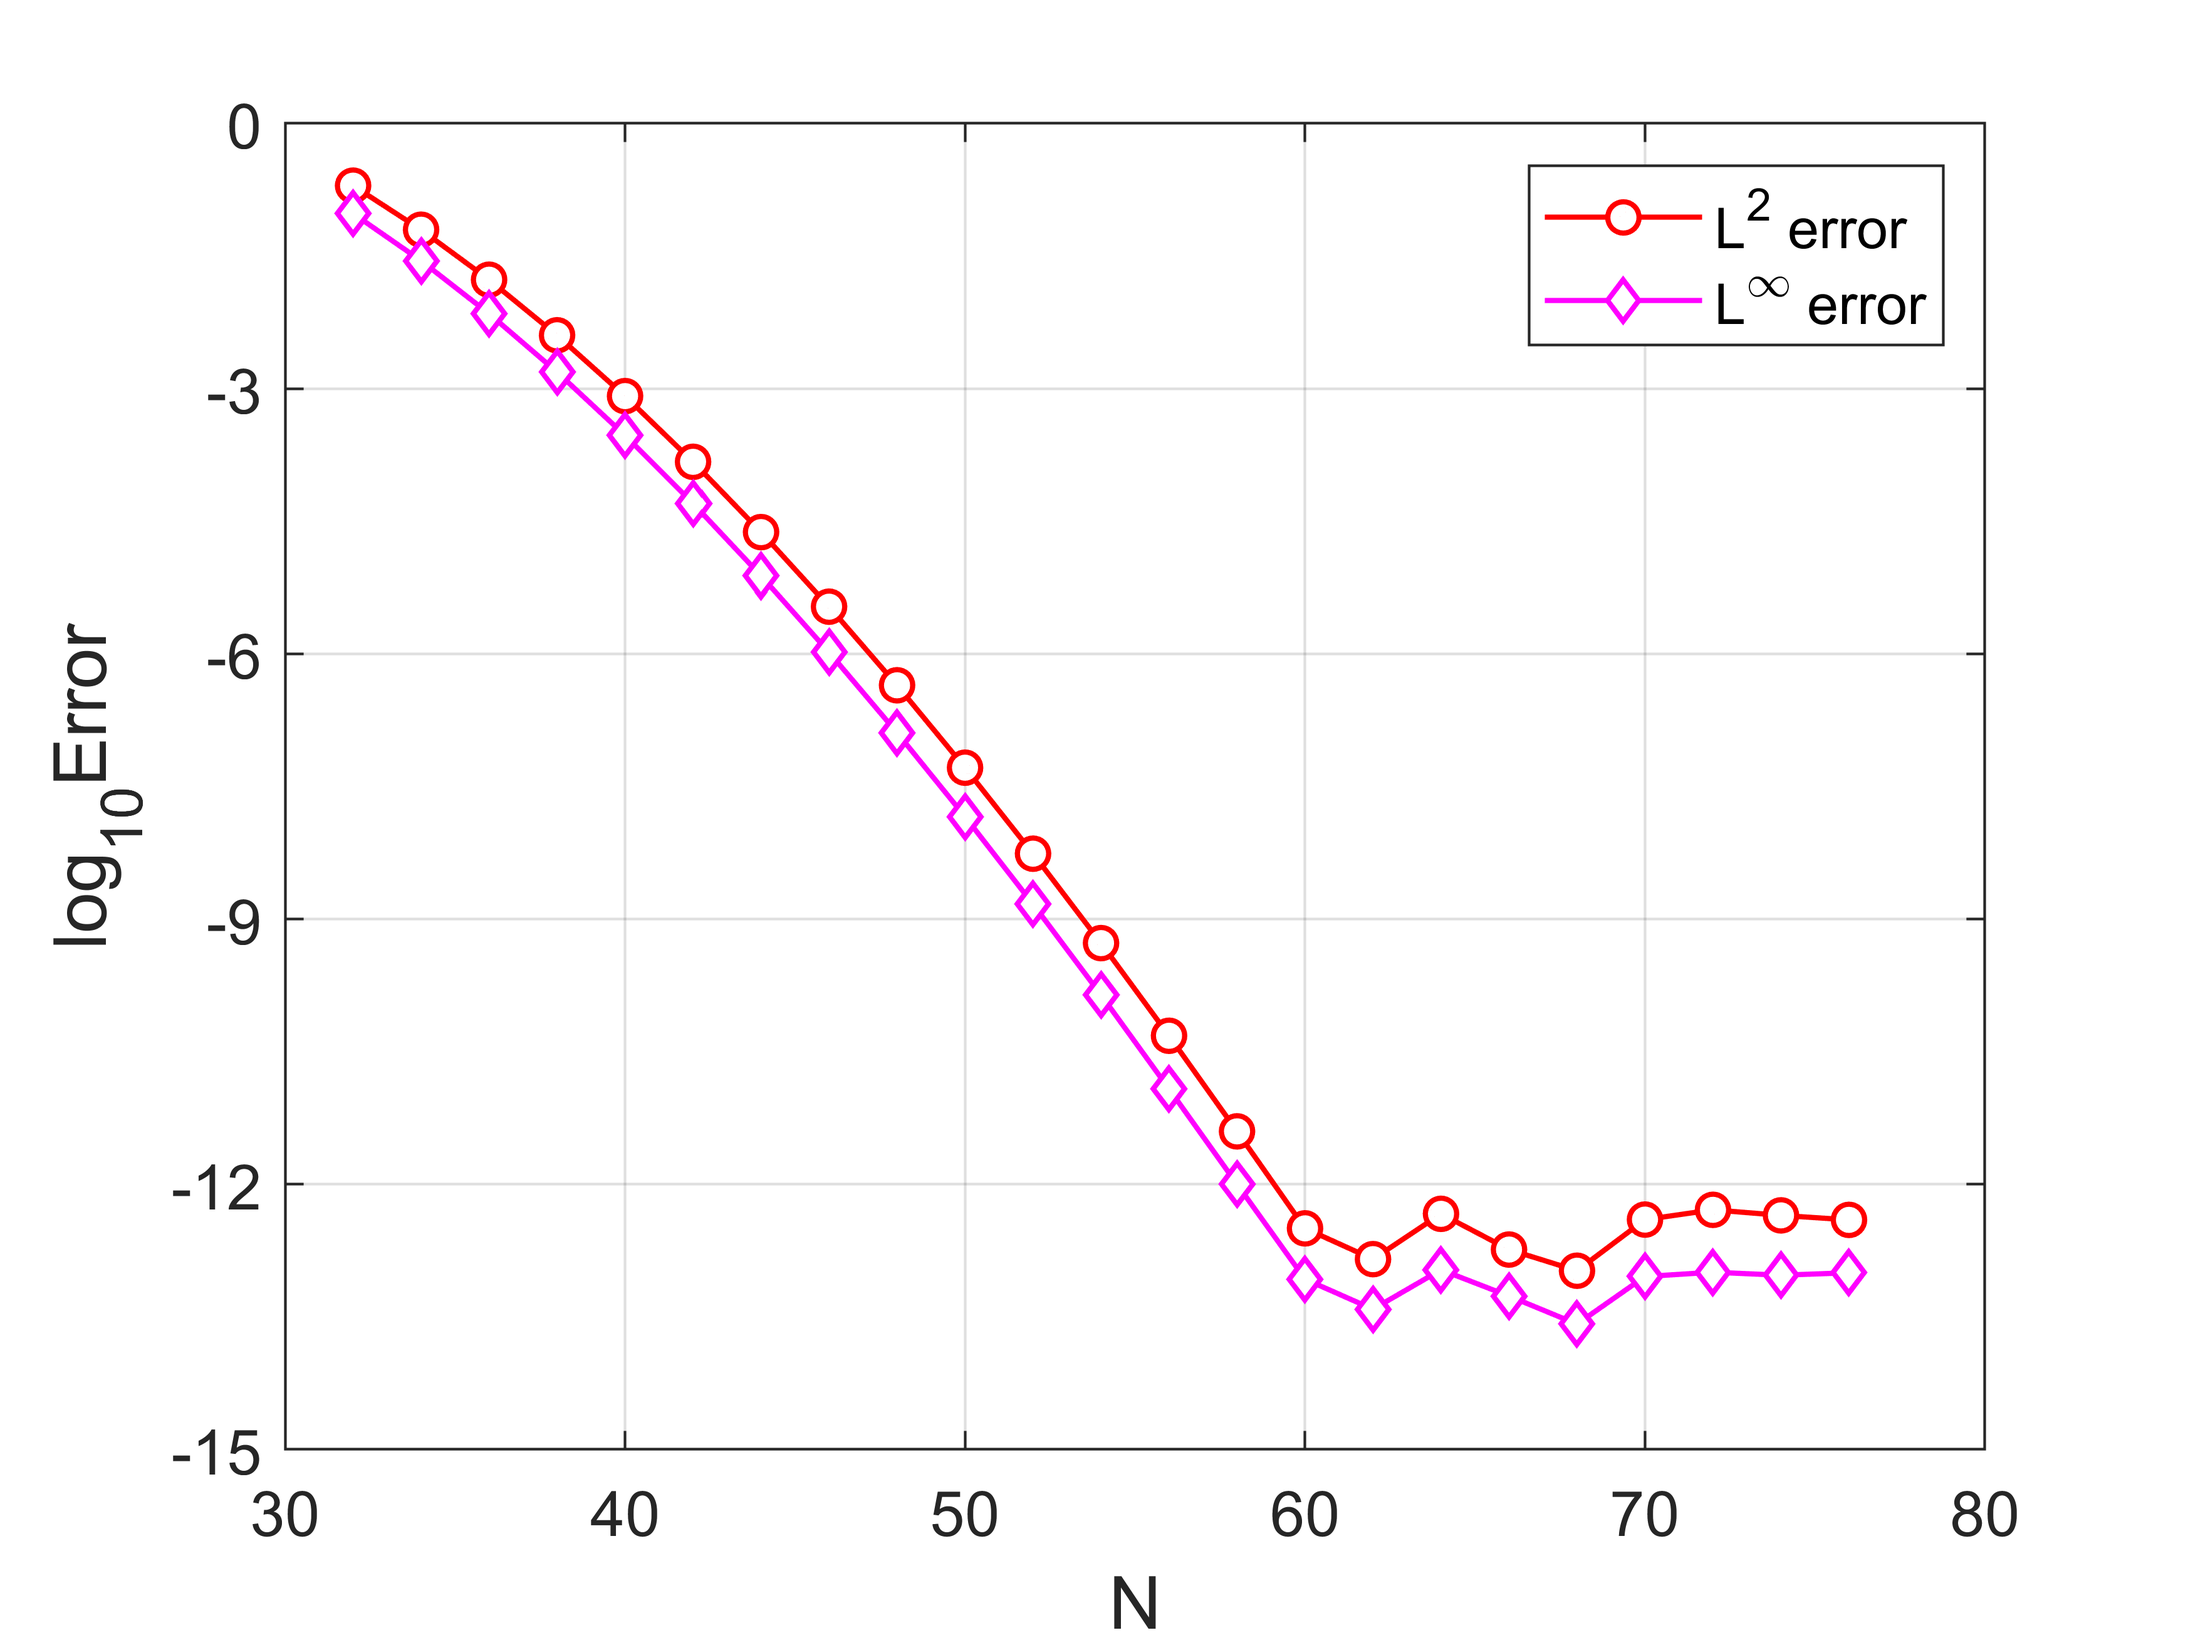
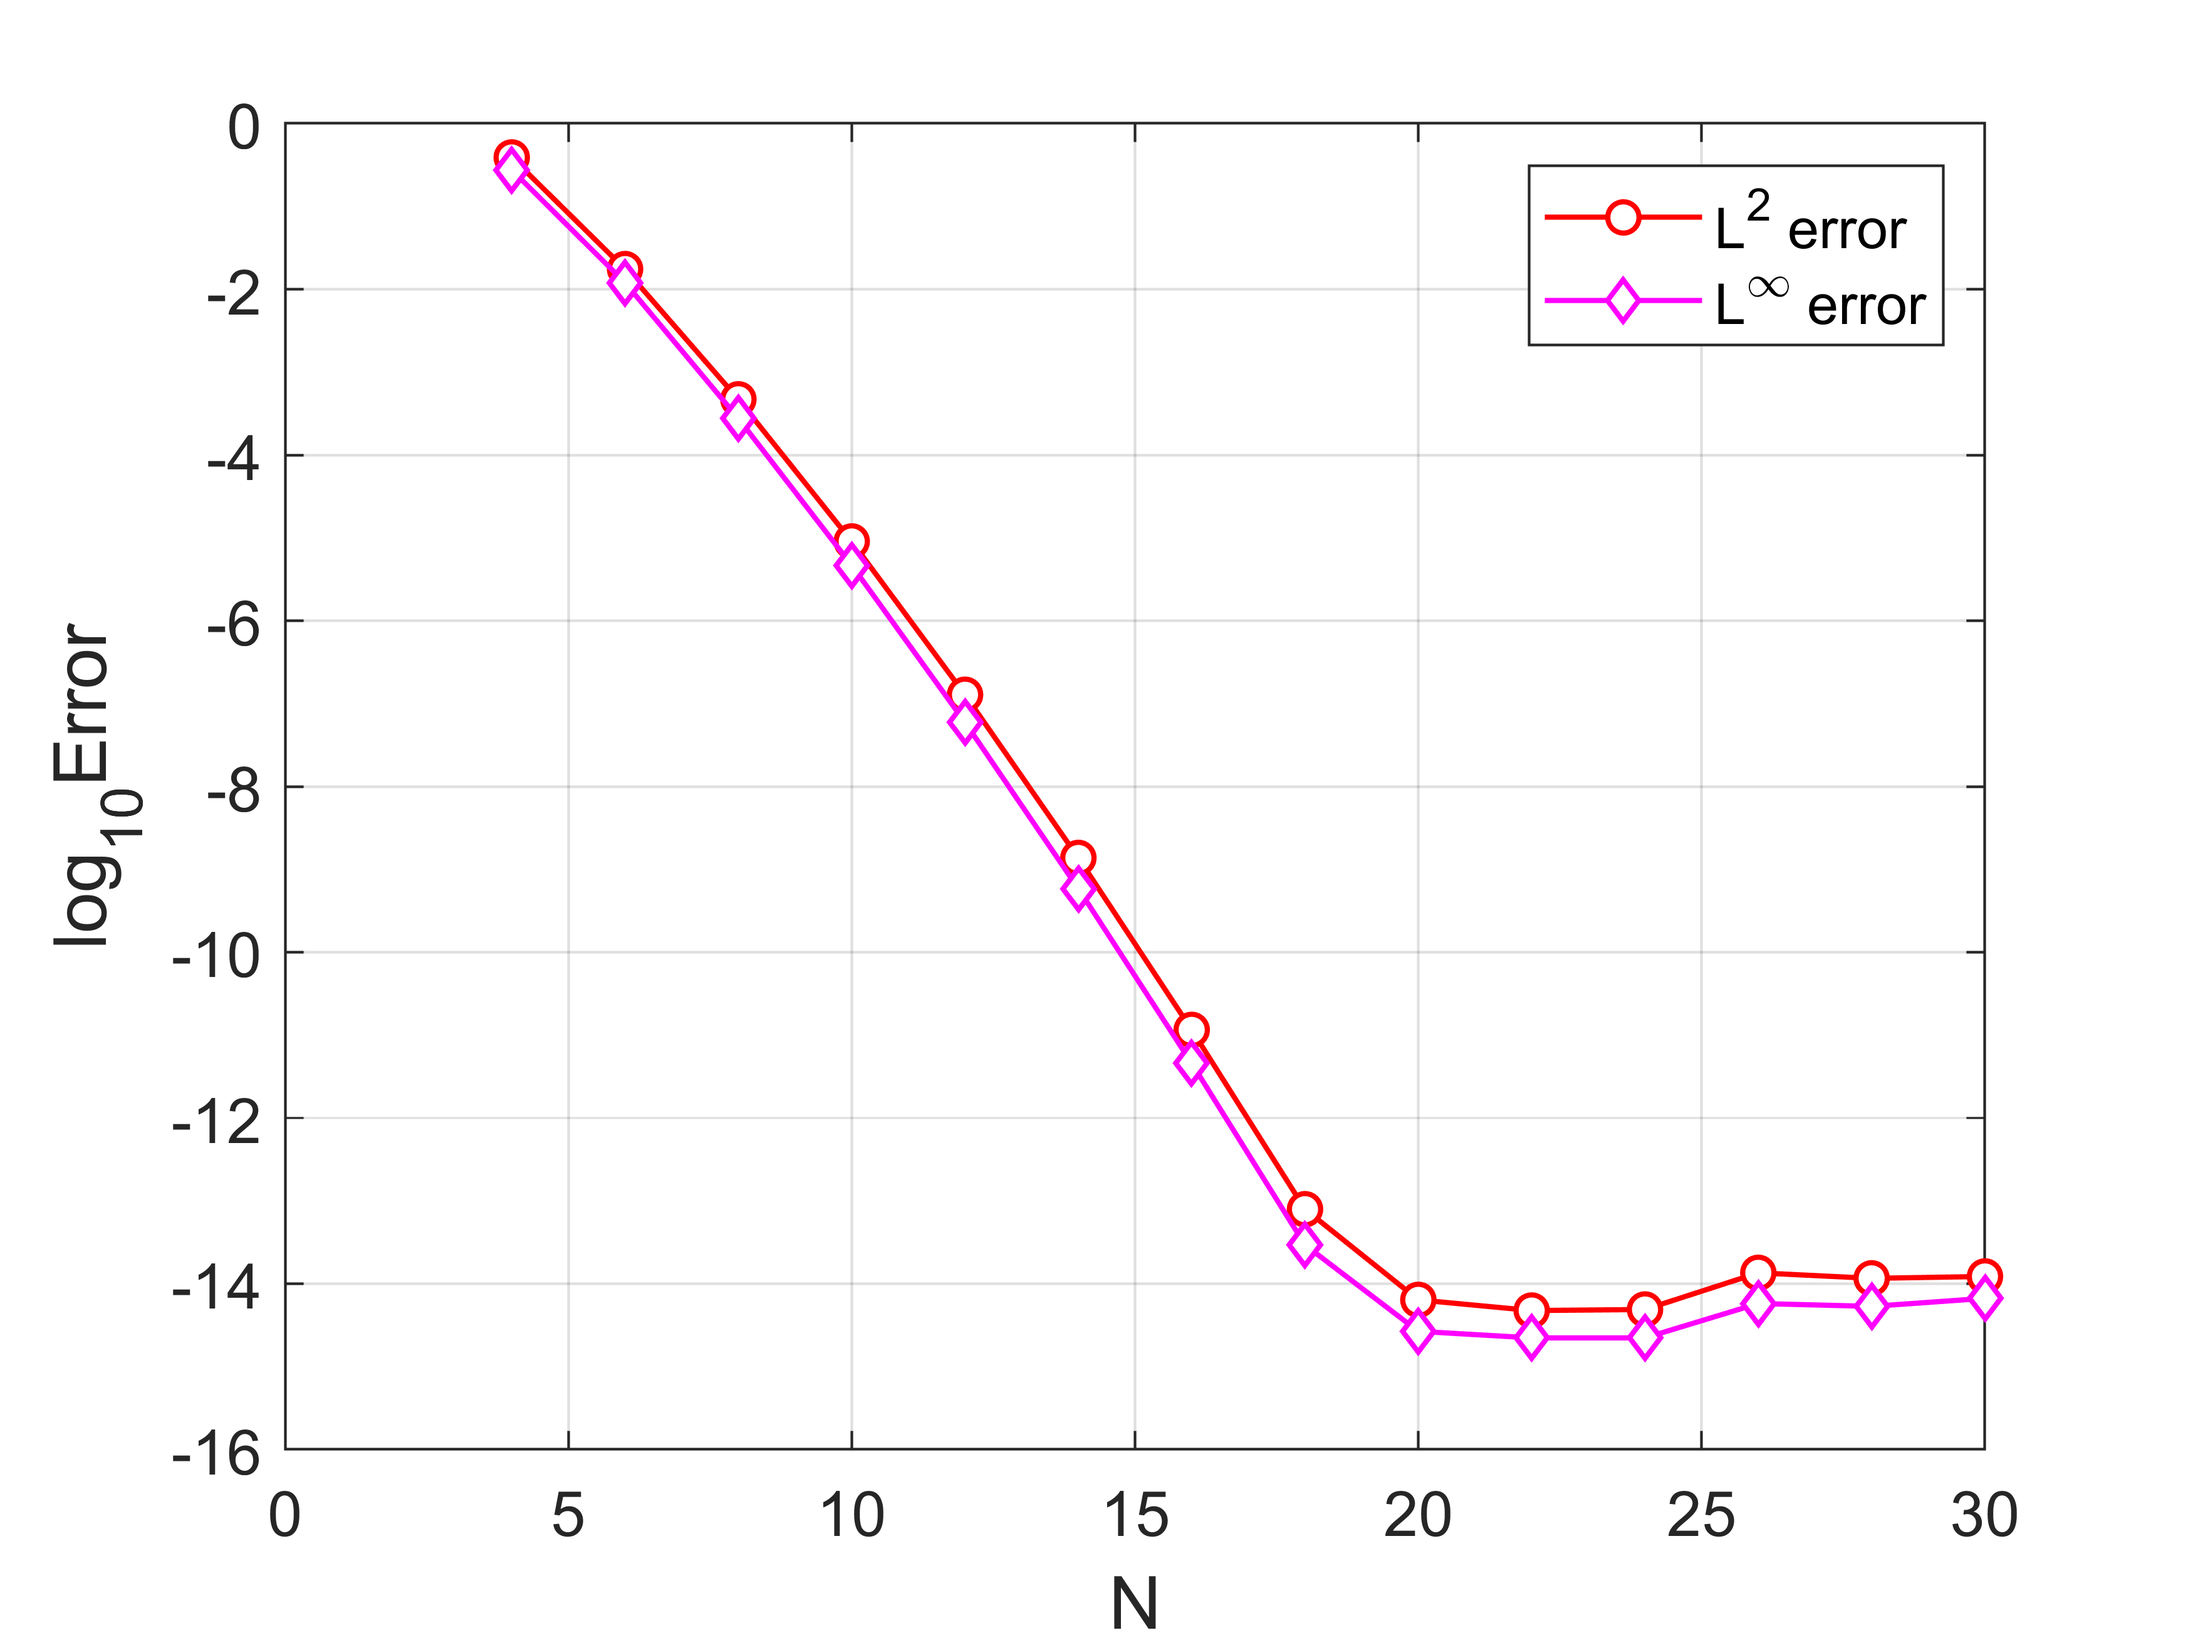
Update

diff --git a/SM Code/japolym.m b/SM Code/japolym.m
@@ -1,0 +1,63 @@
+%Y=japolym(n,alp,bet,x) computes the Jacobi polynomials of degree up to n with parameter (alp,bet) at a
+%   vector-valued x
+% [DY,Y]=japolym(n,alp,bet, x) also returns the values of the 1st-order 
+%   derivatives stored in DY
+% Note: Y (and likewise for DY) saves J_0^{alp,bet}(x), J_1^{alp,bet}(x), ...., J_n^{alp,bet}_n(x) by rows
+% i.e., J_k^{alp,bet}(x) is the (k+1)th row of the matrix Y (or DY)
+% See Page 74 of the book: J. Shen, T. Tang and L. Wang, Spectral Methods:
+%  Algorithms, Analysis and Applications, Springer Series in Compuational
+%  Mathematics, 41, Springer, 2011. 
+% 
+% Last modified on September 2, 2011    
+
+
+function [varargout]=japolym(n,alp,bet,x)
+  apb=alp+bet;     
+
+dim=size(x); xx=x; if dim(1)>dim(2), xx=xx'; end; % xx is a row-vector
+if nargout==1,
+     if n==0, varargout{1}=ones(size(xx));  return; end;
+     if n==1, varargout{1}=[ones(size(xx)); 0.5*(alp-bet+(apb+2)*xx)]; return; end;
+
+     polylst=ones(size(xx));	  poly=0.5*(alp-bet+(apb+2)*xx);
+     Y=[polylst;poly];
+     
+   for k=2:n,
+	  a1=2.0*k*(k+apb)*(2.0*k+apb-2.);
+	  a2=(2.0*k+apb-1.)*(alp^2-bet^2);
+	  b3=(2.0*k+apb-2.); a3=b3*(b3+1.)*(b3+2.);
+	  a4=2.0*(k+alp-1.)*(k+bet-1.)*(2.0*k+apb);
+	  polyn=((a2+a3*xx).*poly-a4*polylst)/a1;  % See (3.110) and (3.111) 
+      polylst=poly; poly=polyn;	Y=[Y;polyn];
+   end;
+      varargout{1}=Y; return;
+end;
+
+   
+if n==0, varargout{2}=ones(size(xx)); varargout{1}=zeros(size(xx)); return; end;
+if n==1, varargout{2}=[ones(size(xx)); 0.5*(alp-bet+(apb+2)*xx)];
+    varargout{1}=[zeros(size(xx));0.5*(apb+2)*ones(size(xx))]; return; end;
+
+   polylst=ones(size(xx));         pderlst=zeros(size(xx));
+   poly=0.5*(alp-bet+(apb+2.)*xx); pder=0.5*(apb+2.)*ones(size(xx));
+   Y=[polylst;poly]; DY=[pderlst;pder];
+   for k=2:n,
+	  a1=2.0*k*(k+apb)*(2.0*k+apb-2.);
+	  a2=(2.0*k+apb-1.)*(alp^2-bet^2);
+	  b3=(2.0*k+apb-2.); a3=b3*(b3+1.)*(b3+2.);
+	  a4=2.0*(k+alp-1.)*(k+bet-1.)*(2.0*k+apb);
+	  polyn=((a2+a3*xx).*poly-a4*polylst)/a1;  % See (3.110) and (3.111) 
+	  pdern=((a2+a3*xx).*pder-a4*pderlst+a3*poly)/a1;	  	  
+	  polylst=poly; poly=polyn; Y=[Y;polyn];
+	  pderlst=pder; pder=pdern; DY=[DY;pdern];
+   end;
+      varargout{2}=Y;
+      varargout{1}=DY;
+   return;
+
+
+    
+
+  
+     
+	

diff --git a/SM Code/ChebSM1_error.m b/SM Code/ChebSM1_error.m
@@ -1,0 +1,59 @@
+% ChebSM1_error.m
+% Chebyshev-Galerkin Method for for the model equation
+% -u_xx+u=f in (-1,1) with boundary condition u(-1)=u(1)=0;
+% exact solution: u=sin(kw*pi*x); 
+% RHS: f=kw*kw*pi^2*sin(kw*pi*x)+sin(kw*pi*x); 
+% Rmk: Use routines japoly(); jags(); japolym();
+clear all
+kw=10;
+Nvec=[32:2:76];
+% Initialization for error
+L2_Error=[];
+Max_Error=[];
+for N=Nvec
+    [xv,wv]=jags(N+1,-1/2,-1/2);               % Chebyshev-Gauss points and weights
+    Cm=japolym(N,-1/2,-1/2,xv)./japolym(N,-1/2,-1/2,1);   % matrix of Chebyshev polynomal    
+    u=sin(kw*pi*xv);                           % test function
+    f=kw*kw*pi^2*sin(kw*pi*xv)+sin(kw*pi*xv);  % RHS of test function
+    % Calculting coefficient matrix
+    S=sparse(N-1,N-1);    % stiff matrix
+    for k=1:N-1
+        for j=1:N-1
+            if k==j,  S(k,j)=2*pi*k*(k+1);
+            elseif k<j & mod(j-k,2)==0,   S(k,j)=4*pi*k;
+            else  S(k,j)=0;    end
+        end
+    end
+    
+    M=diag([3/2*pi, pi*ones(1,N-2)])+diag(-pi/2*ones(1,N-3),2)...
+        +diag(-pi/2*ones(1,N-3),-2);    % mass matrix
+    A=S+M;
+    
+    % RHS calculative matrix
+    Pm=Cm(1:end-2,:)-Cm(3:end,:);
+    b=Pm*diag(wv)*f;          % Solving RHS
+    uh=A\b;                   % expansion coefficients of u_N in terms of the basis
+    un=Pm'*uh;                % compositing the numerical solution
+    
+    L2_error=norm(abs(un-u),2);     % L^2 error
+    Max_error=norm(abs(un-u),inf);  % maximum pointwise error 
+    L2_Error=[L2_Error;L2_error];
+    Max_Error=[Max_Error;Max_error];
+end
+% Plot L^2 and maximum pointwise error
+plot(Nvec,log10(L2_Error),'ro-','MarkerFaceColor','w','LineWidth',1)
+hold on
+plot(Nvec,log10(Max_Error),'md-','MarkerFaceColor','w','LineWidth',1)
+grid on
+legend('L^2 error','L^{\infty} error','location','NorthEast')
+% title('L^2 error of Chebyshev-Galerkin methods','fontsize',12)
+set(gca,'fontsize',12)
+xlabel('N','fontsize', 14), ylabel('log_{10}Error','fontsize',14)
+
+% sets axis tick and axis limits
+xticks(30:10:80)
+yticks(-14:2:0)
+xlim([30 80])
+ylim([-14 0])
+
+% print -dpng -r600  ChebSM1_error.png

diff --git a/SM Code/japoly.m b/SM Code/japoly.m
@@ -1,0 +1,59 @@
+%y=japoly(n,alp,bet,x) computes the Jacobi polynomial of degree n with parameter (alp,bet) at a
+%   vector-valued x
+% [dy,y]=japoly(n,alp,bet, x) also returns the values of the 1st-order 
+%   derivative stored in dy
+% See Page 74 of the book: J. Shen, T. Tang and L. Wang, Spectral Methods:
+%  Algorithms, Analysis and Applications, Springer Series in Compuational
+%  Mathematics, 41, Springer, 2011. 
+% 
+% Last modified on September 2, 2011    
+
+
+function [varargout]=japoly(n,alp,bet,x)
+  apb=alp+bet;     
+   
+if nargout==1,
+     if n==0, varargout{1}=ones(size(x));  return; end;
+     if n==1, varargout{1}=0.5*(alp-bet+(apb+2)*x); return; end;
+
+     polylst=ones(size(x));	
+     poly=0.5*(alp-bet+(apb+2)*x);
+     
+   for k=2:n,
+	  a1=2.0*k*(k+apb)*(2.0*k+apb-2.);
+	  a2=(2.0*k+apb-1.)*(alp^2-bet^2);  %(b3+1)*(alp^2-bet^2);--Jiao remark
+	  b3=(2.0*k+apb-2.); a3=b3*(b3+1.)*(b3+2.);
+	  a4=2.0*(k+alp-1.)*(k+bet-1.)*(2.0*k+apb);  %2.0*(k+alp-1.)*(k+bet-1.)*(b3+2)--Jiao remark
+	  polyn=((a2+a3*x).*poly-a4*polylst)/a1;  % See (3.110) and (3.111) 
+      polylst=poly; poly=polyn;	
+   end;
+      varargout{1}=polyn; return;
+end;
+
+   
+if n==0, varargout{2}=ones(size(x)); varargout{1}=zeros(size(x)); return; end;
+if n==1, varargout{2}=0.5*(alp-bet+(apb+2)*x); varargout{1}=0.5*(apb+2)*ones(size(x)); return; end;
+
+   polylst=ones(size(x));         pderlst=zeros(size(x));
+   poly=0.5*(alp-bet+(apb+2.)*x); pder=0.5*(apb+2.)*ones(size(x));
+   
+   for k=2:n,
+	  a1=2.0*k*(k+apb)*(2.0*k+apb-2.);
+	  a2=(2.0*k+apb-1.)*(alp^2-bet^2);
+	  b3=(2.0*k+apb-2.); a3=b3*(b3+1.)*(b3+2.);
+	  a4=2.0*(k+alp-1.)*(k+bet-1.)*(2.0*k+apb);
+	  polyn=((a2+a3*x).*poly-a4*polylst)/a1;  % See (3.110) and (3.111) 
+	  pdern=((a2+a3*x).*pder-a4*pderlst+a3*poly)/a1;	  	  
+	  polylst=poly; poly=polyn;
+	  pderlst=pder; pder=pdern;
+   end;
+      varargout{2}=polyn;
+      varargout{1}=pdern;
+   return;
+
+
+    
+
+  
+     
+	

diff --git a/SM Code/LegenCM2_error.m b/SM Code/LegenCM2_error.m
@@ -1,23 +1,26 @@
+% LegenCM2_error.m
 % Legendre-collocation Method for the model equation: 
-% -u''(x)+u'(x)+u(x)=f(x),  x in (-1,1);
+% -u''(x)+mu*u'(x)+nu*u(x)=f(x),  x in (-1,1);
 % % boundary condition: u(-1)=u(1)=0;
 % exact solution: u=sin(kw*pi*x); 
 % RHS: f(x)=kw^2*pi^2*sin(kw*pi*x)+sin(kw*pi*x)+kw*pi*cos(kw*pi*x); 
 % Rmk: Use routines lepoly(); legslb(); legslbdm(); 
 clear all;  clf
-kw=1;
-Nvec=[4:2:24];
+kw=10;
+nu=1;
+mu=1;
+Nvec=[32:2:76];
 % Initialization for error
 L2_Error=[];
 Max_Error=[];
 for N=Nvec
     [xv,wv]=legslb(N);          % compute LGL nodes and weights
     u=sin(kw*pi*xv);            % test function
-    f=kw*kw*pi^2*sin(kw*pi*xv)+sin(kw*pi*xv)+kw*pi*cos(kw*pi*xv);  % RHS
+    f=kw*kw*pi^2*sin(kw*pi*xv)+nu*kw*pi*cos(kw*pi*xv)+mu*sin(kw*pi*xv);  % RHS
     % Setup and solve the collocation system
     D1=legslbdm(N);   %1st order differentiation matrix
     D2=D1*D1;            % 2nd order differentiation matrix
-    D=-D2(2:N-1,2:N-1)+D1(2:N-1,2:N-1)+eye(N-2);    % coefficient matrix
+    D=-D2(2:N-1,2:N-1)+nu*D1(2:N-1,2:N-1)+mu*eye(N-2);    % coefficient matrix
     b=f(2:N-1);   % RHS
     un=D\b;
     un=[0;un;0];  % Solve the system 
@@ -31,14 +34,15 @@ plot(Nvec,log10(L2_Error),'ro-','MarkerFaceColor','w','LineWidth',1)
 hold on
 plot(Nvec,log10(Max_Error),'md-','color',[0 0.5 0],'MarkerFaceColor','w','LineWidth',1)
 grid on
+legend('L^2 error','L^{\infty} error','location','NorthEast')
 set(gca,'fontsize',12)
 xlabel('N','fontsize', 14), ylabel('log_{10}Error','fontsize',14)
-%title('L^{\infty} error of Legendre-collocation method','fontsize',12)
+%title('Error of Legendre-collocation method','fontsize',12)
 
 % sets axis tick and axis limits
-xticks(0:5:25)
-yticks(-16:2:0)
-xlim([0 25])
-ylim([-16 0])
+xticks(30:10:80)
+yticks(-15:3:0)
+xlim([30 80])
+ylim([-15 0])
 
-print -dpng -r600  LegenCM2_error.png
+% print -dpng -r600  LegenCM2_error.png

diff --git a/SM Code/jags.m b/SM Code/jags.m
@@ -1,0 +1,54 @@
+% x=jags(n,alp,bet) returns n Jacobi-Gauss points with parameter (alp,bet)
+%                   by using eigenvalue method for nodes.
+% [x,w]=jags(n,alp,bet) also returns the weights (stored in w). 
+% See Page 84 of the book: J. Shen, T. Tang and L. Wang, Spectral Methods:
+%  Algorithms, Analysis and Applications, Springer Series in Compuational
+%  Mathematics, 41, Springer, 2011. 
+% Last modified on September 4, 2011
+
+function [varargout]=jags(n,alp,bet)
+
+if n<=0, disp('Input n >=1'); varargout{1}='Wrong input';  return; end
+
+
+apb=alp+bet;
+if n==1, 
+    varargout{1}=(bet-alp)/(apb+2);
+    varargout{2}=exp((apb+1)*log(2)+gammaln(alp+1)+gammaln(bet+1)-gammaln(apb+1)); 
+    return; 
+end;
+
+
+if alp==bet, 
+  dm=zeros(1,n);
+else 
+ dm=[(bet-alp)/(2+apb), (bet^2-alp^2)./((2*[1:n-1]+apb).*(2*[1:n-1]+apb+2))];            %  Create maindiagnal
+end;
+
+
+id=[2:n-1];                                              % Indices     
+ds=[4*(1+alp)*(1+bet)/((2+apb)^2*(3+apb)),4*id.*(id+alp).*(id+bet).*(id+apb)./((2*id+apb-1).*(2*id+apb).^2.*(2*id+apb+1))];   %  Create subdiagonals
+ds=sqrt(ds);
+
+J =diag(dm)+diag(ds,1)+diag(ds,-1);      %  Create Jacobi matrix
+x= sort(eig(sparse(J)));                 %  Compute eigenvalues
+
+varargout{1}=x;                        % Return nodes 
+
+if nargout==1, return; end;
+
+ gn=(apb+1)*log(2)+gammaln(n+alp+1)+gammaln(n+bet+1)-gammaln(n+1)-gammaln(n+apb+1);
+ gn=exp(gn);                         % Constant in the weight expression (refer to (3.132b)of Shen Tang and Wang's book)
+ [dy,y]=japoly(n,alp,bet,x);         % Compute derivative of Jacobi polynomial of degree n 
+                                     % at the nodes 
+ varargout{2}=gn./((1-x.^2).*dy.^2);  % Compute weights by using weight expression. 
+
+return;
+
+
+ 
+   
+   
+ 
+  
+  

diff --git a/SM Code/LegenCM1_error.m b/SM Code/LegenCM1_error.m
@@ -1,13 +1,15 @@
+% LegenCM1_error.m
 % Legendre-collocation method for the model equation:
-% -u''(x)+\alpha u(x)=f(x), x in (-1,1);
+% -u''(x)+alpha*u(x)=f(x), x in (-1,1);
 % boundary condition: u(-1)=u(1)=0;
 % exact solution: u=sin(kw*pi*x);
 % RHS: f=kw*kw*pi^2*sin(kw*pi*x)+alpha*sin(kw*pi*x);
 % Rmk: Use routines lepoly(); legslb(); legslbdm();
 clear all;  clf
 alpha=1;
-kw=10;
-Nvec=[32:2:76];
+kw=1;
+Nvec=[4:2:30];
+% Nvec=[32:2:76];  % kw=10
 % Initialization for error
 L2_Error=[];
 Max_Error=[];
@@ -36,14 +38,14 @@ hold on
 plot(Nvec,log10(Max_Error),'md-','MarkerFaceColor','w','LineWidth',1)
 grid on
 legend('L^2 error','L^{\infty} error','location','NorthEast')
-%title('L^{2} error of Legendre-collocation method','fontsize',12)
+%title('Error of Legendre-collocation method','fontsize',12)
 set(gca,'fontsize',12)
 xlabel('N','fontsize', 14), ylabel('log_{10}Error','fontsize',14)
 
 % sets axis tick and axis limits
-xticks(30:10:80)
-yticks(-15:3:0)
-xlim([30 80])
-ylim([-15 0])
+xticks(0:5:30)
+yticks(-16:2:0)
+xlim([0 30])
+ylim([-16 0])
 
 % print -dpng -r600  LegenCM1_error.png

diff --git a/SM Code/LegenSM3_error.m b/SM Code/LegenSM3_error.m
@@ -1,3 +1,4 @@
+% LegenSM3_error.m
 % Legendre-Spectral Method for 1D elliptic problem
 % -u_yy+u=f in [0,1] with boundary condition: u(0)=1, u'(1)=0;
 % exact solution: u=(1-y)^2*exp(y);   RHS: f=(2-4*y)*exp(y);

diff --git a/SM Code/LegenSM2_error.m b/SM Code/LegenSM2_error.m
@@ -1,4 +1,4 @@
-% LGM2_error.m
+% LegenSM2_error.m
 % Legendre-Galerkin Method for the model equation
 % -u''(x)+u'(x)+u(x)=f(x), x in (-1,1),
 % boundary condition: u(-1)=u(1)=0;
